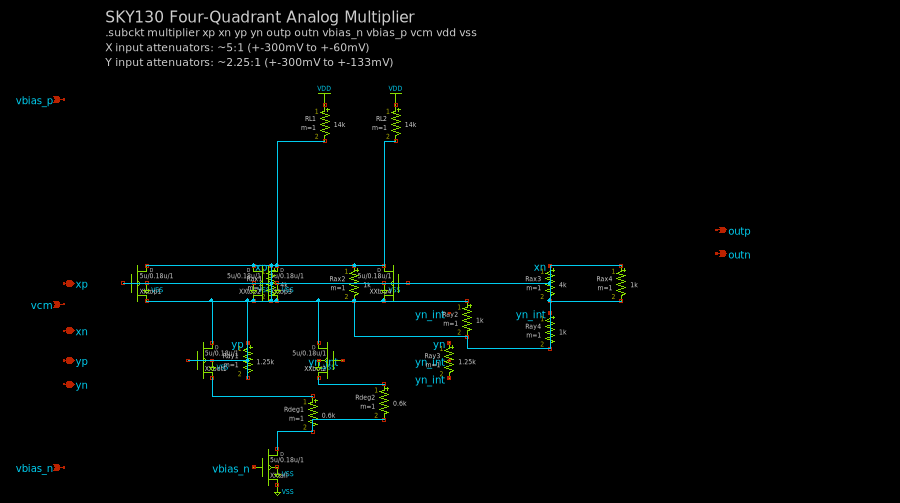
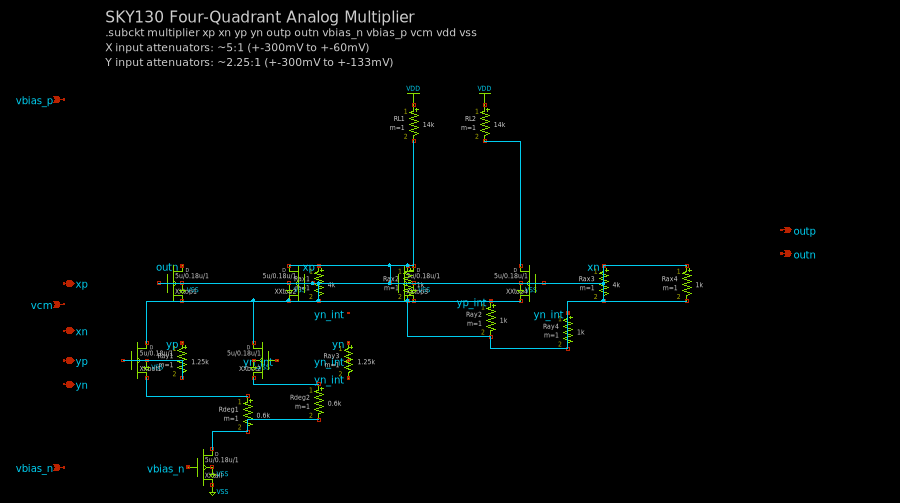
Fix Gilbert cell quad overlap, increase TG/inverter block spacing
- Top quad diff pairs no longer overlap (Xtop2/Xtop3 collision fixed)
- Added overlap check for stacked block placement
- Increased single-column block spacing from 160 to 200px

diff --git a/src/placer.py b/src/placer.py
@@ -595,9 +595,9 @@ def place_circuit(circuit: Circuit) -> PlacedCircuit:
         px = cur_x
         for block in p_blocks:
             _place_block(result, block, px, PMOS_Y)
-            # Use tighter spacing for single-column blocks (inverter/tgate)
+            # Single-column blocks need less space than diff pairs
             if block.type in ("inverter", "tgate"):
-                px += 160  # Compact spacing for single-column blocks
+                px += 200  # Moderate spacing for single-column blocks
             else:
                 px += H_SPACING + BLOCK_GAP
 
@@ -627,6 +627,8 @@ def place_circuit(circuit: Circuit) -> PlacedCircuit:
         # Place top NMOS blocks aligned above their bottom stacking partners
         top_y = MID_Y
         tx = cur_x
+        # Track the rightmost x of placed top blocks to avoid overlap
+        top_right_x = cur_x - H_SPACING
         for block in top_n:
             block_sources = set()
             for cn in block.components:
@@ -642,10 +644,15 @@ def place_circuit(circuit: Circuit) -> PlacedCircuit:
                     break
 
             if aligned_x is not None:
+                # Ensure no overlap with previously placed top blocks
+                min_x = top_right_x + H_SPACING + BLOCK_GAP
+                if aligned_x < min_x:
+                    aligned_x = min_x
                 _place_block(result, block, aligned_x, top_y)
             else:
                 _place_block(result, block, tx, top_y)
-            tx = max(tx, max(result.placements[c].x for c in block.components)) + BLOCK_GAP + H_SPACING // 2
+            top_right_x = max(result.placements[c].x for c in block.components)
+            tx = top_right_x + BLOCK_GAP + H_SPACING // 2
 
         cur_x = max(px, tx, nx)
 
